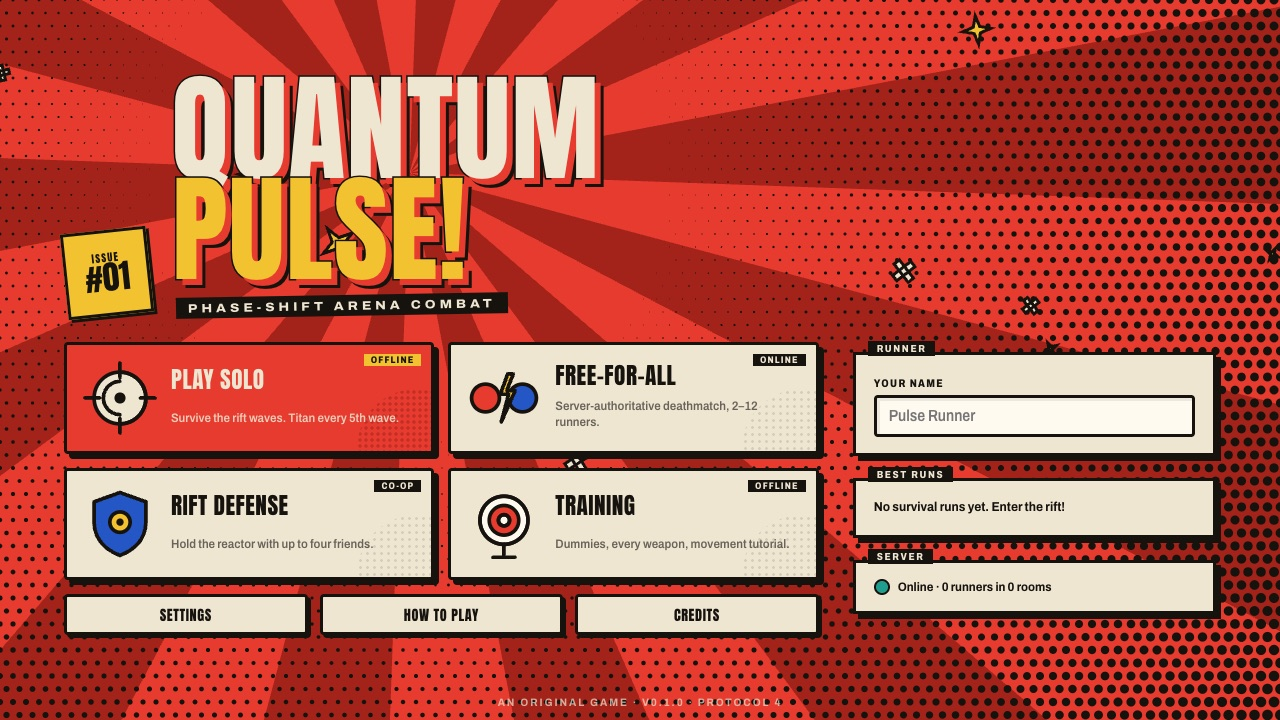
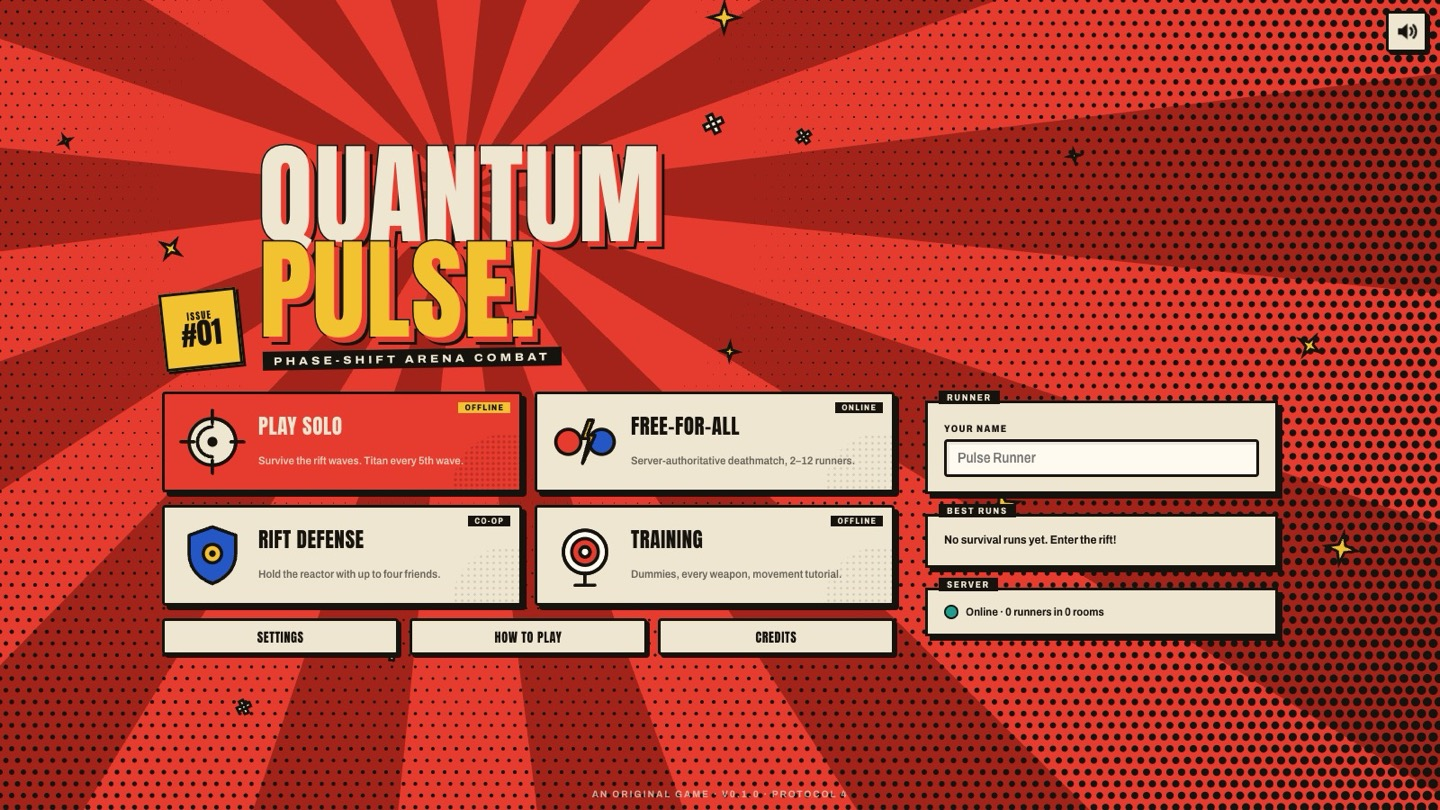
docs: refresh menu screenshot and link the live build

diff --git a/README.md b/README.md
@@ -2,7 +2,9 @@
 
 > **Phase-shift arena combat in your browser.** Grapple through quantum rings, tear open gravity fractures, and break reality with a well-timed Phase Break. Drawn like a living comic book: every character, arena and effect is generated in code, and all audio is synthesised.
 
-![Main menu](docs/images/menu.jpg)
+**[▶ Play it live at quantum--pulse.vercel.app](https://quantum--pulse.vercel.app/)** (desktop browser, keyboard and mouse)
+
+![Main menu: comic-cover title, four mode cards, runner name, best runs and server status](docs/images/menu.jpg)
 
 Quantum Pulse is an original, fast-paced first-person arena shooter built with Three.js and Node.js. You play a **Pulse Runner**, fighting through unstable arenas that phase between versions of reality. You can survive escalating waves alone, fight up to 11 other runners in a server-authoritative free-for-all, or defend a quantum reactor with up to three friends.
 
